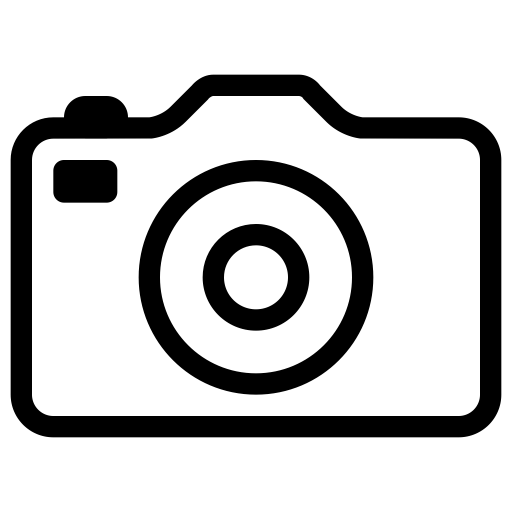
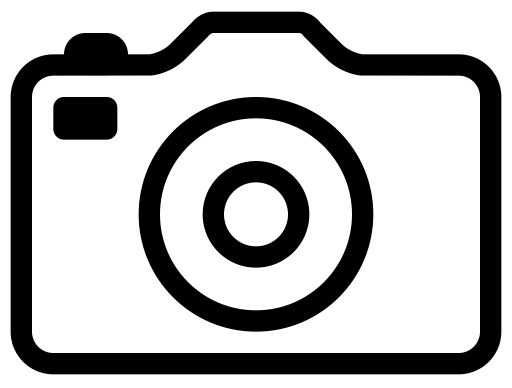
Fix max-h+w on img
Fix max-h+w on img

diff --git a/style.css b/style.css
@@ -47,8 +47,8 @@ main {
 
 #picture > img {
   grid-area: aside;
-  width: 100%;
-  object-fit: cover;
+  max-width: 100%;
+  max-height: 100%;
 }
 
 footer {
